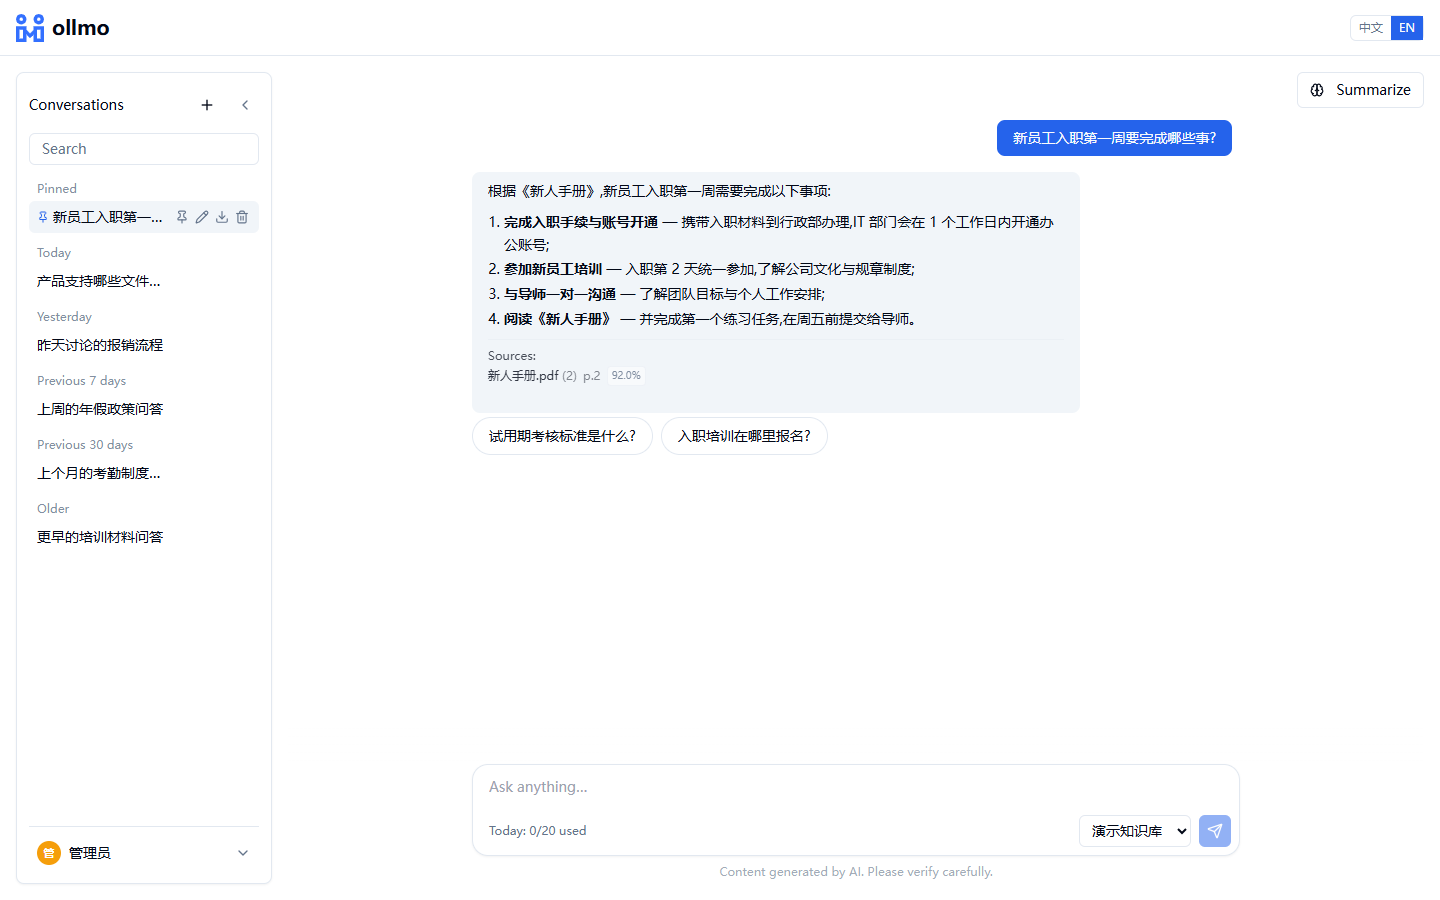
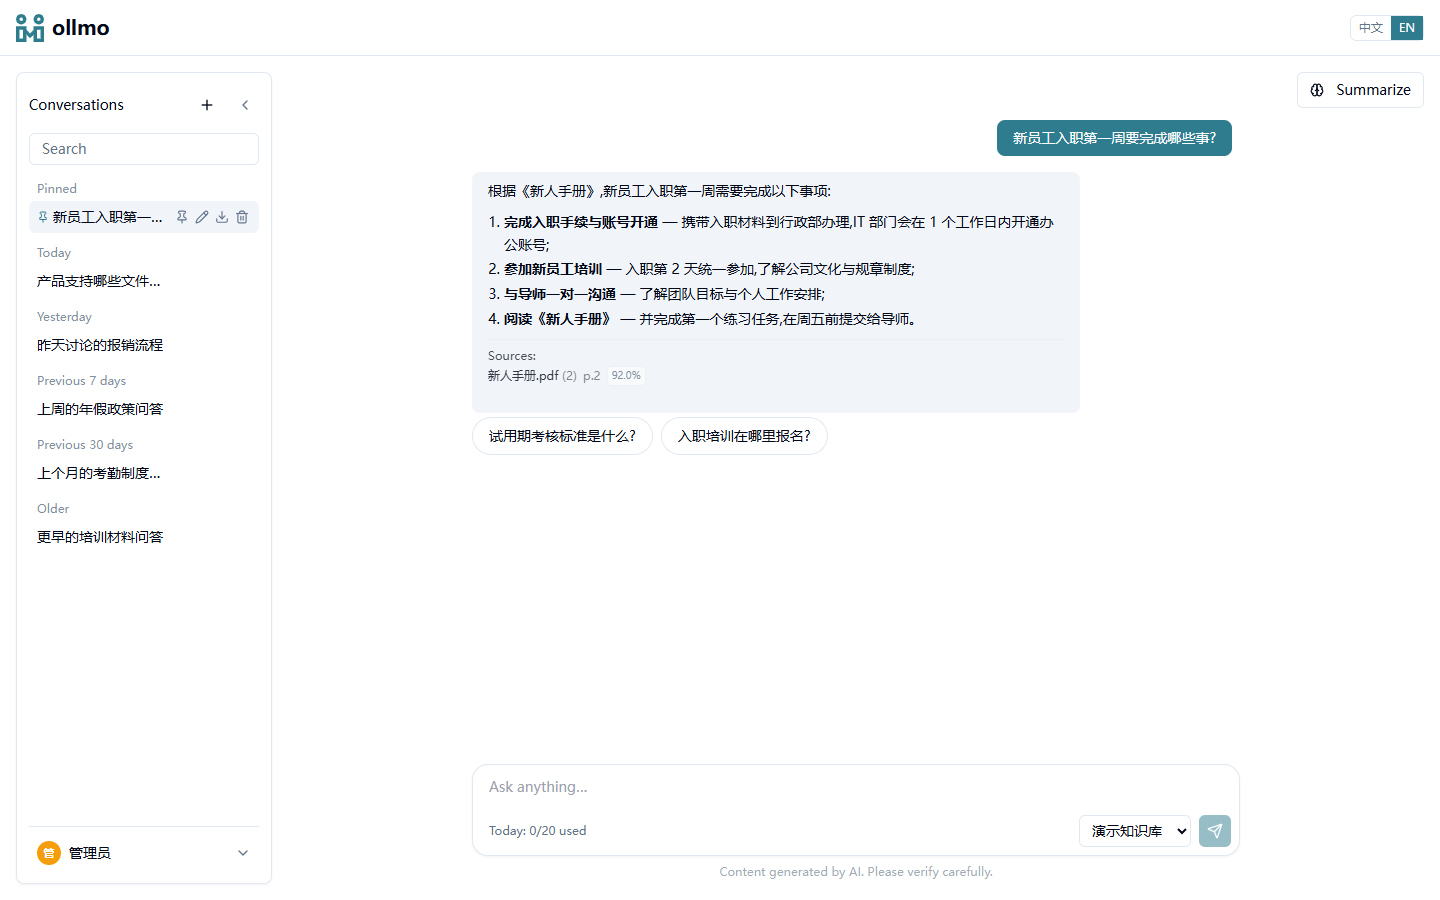
feat(theme): 主色调由蓝改为深青,修复暗色变量未编译的问题
- 主色 token 换为青色系:亮色 --primary hsl(191 50% 37%)(#2F7C8E 深青),
  hover 用 #486B73 的 hsl(191 23% 37%),暗色用亮青 hsl(188 55% 62%)
  配深青前景字;新增 --primary-hover 供按钮 hover 使用;
- Logo 改用 hsl(var(--primary)) 跟随主题;
- 清理 15 处硬编码蓝(来源徽章/状态徽章/图表色/LLM 节点色/侧边栏图标)
  统一换成 teal,安装页链接改用 text-primary;
- 修复:globals.css 的 .dark 变量块从未进入编译产物(Tailwind v3 会
  丢弃 .dark/:is(.dark) 选择器的源规则),导致暗色模式一直用亮色变量。
  改用 html.dark 拼写,已确认编译输出包含暗色变量;
- 重拍全部 README 截图(青色主题)。

diff --git a/web/app/globals.css b/web/app/globals.css
@@ -10,8 +10,9 @@
     --card-foreground: 222.2 84% 4.9%;
     --popover: 0 0% 100%;
     --popover-foreground: 222.2 84% 4.9%;
-    --primary: 221.2 83.2% 53.3%;
+    --primary: 191 50% 37%;
     --primary-foreground: 210 40% 98%;
+    --primary-hover: 191 23% 37%;
     --secondary: 210 40% 96.1%;
     --secondary-foreground: 222.2 47.4% 11.2%;
     --muted: 210 40% 96.1%;
@@ -22,31 +23,38 @@
     --destructive-foreground: 210 40% 98%;
     --border: 214.3 31.8% 91.4%;
     --input: 214.3 31.8% 91.4%;
-    --ring: 221.2 83.2% 53.3%;
+    --ring: 191 50% 37%;
     --radius: 0.5rem;
   }
+}
 
-  .dark {
-    --background: 222.2 84% 4.9%;
-    --foreground: 210 40% 98%;
-    --card: 222.2 84% 4.9%;
-    --card-foreground: 210 40% 98%;
-    --popover: 222.2 84% 4.9%;
-    --popover-foreground: 210 40% 98%;
-    --primary: 217.2 91.2% 59.8%;
-    --primary-foreground: 222.2 47.4% 11.2%;
-    --secondary: 217.2 32.6% 17.5%;
-    --secondary-foreground: 210 40% 98%;
-    --muted: 217.2 32.6% 17.5%;
-    --muted-foreground: 215 20.2% 65.1%;
-    --accent: 217.2 32.6% 17.5%;
-    --accent-foreground: 210 40% 98%;
-    --destructive: 0 62.8% 30.6%;
-    --destructive-foreground: 210 40% 98%;
-    --border: 217.2 32.6% 17.5%;
-    --input: 217.2 32.6% 17.5%;
-    --ring: 217.2 91.2% 59.8%;
-  }
+/* Dark overrides use the html.dark spelling: Tailwind v3's class-based
+   dark mode drops source rules whose selector is `.dark` or `:is(.dark)`
+   during compilation, so those spellings never reach the built CSS and
+   dark mode silently keeps the light variables. `html.dark` survives and
+   targets the same element; unlayered, it also outranks the layered
+   :root block at the same element, which is what we want here. */
+html.dark {
+  --background: 222.2 84% 4.9%;
+  --foreground: 210 40% 98%;
+  --card: 222.2 84% 4.9%;
+  --card-foreground: 210 40% 98%;
+  --popover: 222.2 84% 4.9%;
+  --popover-foreground: 210 40% 98%;
+  --primary: 188 55% 62%;
+  --primary-foreground: 190 60% 12%;
+  --primary-hover: 188 60% 52%;
+  --secondary: 217.2 32.6% 17.5%;
+  --secondary-foreground: 210 40% 98%;
+  --muted: 217.2 32.6% 17.5%;
+  --muted-foreground: 215 20.2% 65.1%;
+  --accent: 217.2 32.6% 17.5%;
+  --accent-foreground: 210 40% 98%;
+  --destructive: 0 62.8% 30.6%;
+  --destructive-foreground: 210 40% 98%;
+  --border: 217.2 32.6% 17.5%;
+  --input: 217.2 32.6% 17.5%;
+  --ring: 188 55% 62%;
 }
 
 @layer base {

diff --git a/web/app/dashboard/analytics/bills-section.tsx b/web/app/dashboard/analytics/bills-section.tsx
@@ -11,7 +11,7 @@ import { formatCost, formatTime, formatTokens } from "@/lib/utils";
 // Color tokens for icon badges. Tailwind requires static class names, so we
 // enumerate the variants used on this page.
 const BADGE: Record<string, string> = {
-  blue: "bg-blue-50 text-blue-600 dark:bg-blue-950/50 dark:text-blue-400",
+  blue: "bg-teal-50 text-teal-600 dark:bg-teal-950/50 dark:text-teal-400",
   green: "bg-green-50 text-green-600 dark:bg-green-950/50 dark:text-green-400",
   purple: "bg-purple-50 text-purple-600 dark:bg-purple-950/50 dark:text-purple-400",
   amber: "bg-amber-50 text-amber-600 dark:bg-amber-950/50 dark:text-amber-400",
@@ -35,7 +35,7 @@ function Badge({
 // Source label lookup: each LLM call carries a source that identifies which
 // pipeline step produced it. Colors match the agent node palette.
 const SOURCE: Record<string, { key: string; cls: string }> = {
-  chat: { key: "bill.source_chat", cls: "bg-blue-50 text-blue-600 dark:bg-blue-950/50 dark:text-blue-400" },
+  chat: { key: "bill.source_chat", cls: "bg-teal-50 text-teal-600 dark:bg-teal-950/50 dark:text-teal-400" },
   classifier: { key: "bill.source_classifier", cls: "bg-violet-50 text-violet-600 dark:bg-violet-950/50 dark:text-violet-400" },
   intermediate: { key: "bill.source_intermediate", cls: "bg-amber-50 text-amber-600 dark:bg-amber-950/50 dark:text-amber-400" },
   followups: { key: "bill.source_followups", cls: "bg-cyan-50 text-cyan-600 dark:bg-cyan-950/50 dark:text-cyan-400" },

diff --git a/web/components/agent/agent-nodes.tsx b/web/components/agent/agent-nodes.tsx
@@ -27,7 +27,7 @@ const accents: Record<string, NodeAccent> = {
   classifier: { color: "#8b5cf6", icon: "text-violet-500" },
   retrieval: { color: "#10b981", icon: "text-emerald-500" },
   condition: { color: "#f59e0b", icon: "text-amber-500" },
-  llm: { color: "#3b82f6", icon: "text-blue-500" },
+  llm: { color: "#0d9488", icon: "text-teal-500" },
   message: { color: "#06b6d4", icon: "text-cyan-500" },
 };
 
@@ -244,7 +244,7 @@ export const NODE_TYPE_LABEL_KEY: Record<string, string> = {
 // between source and target without deleting and re-wiring by hand.
 const INSERTABLE_NODES: { type: string; labelKey: string; icon: React.ReactNode; color: string }[] = [
   { type: "retrieval", labelKey: "agent.node_retrieval", icon: <Search className="h-3.5 w-3.5" />, color: "text-emerald-500" },
-  { type: "llm", labelKey: "agent.node_llm", icon: <Brain className="h-3.5 w-3.5" />, color: "text-blue-500" },
+  { type: "llm", labelKey: "agent.node_llm", icon: <Brain className="h-3.5 w-3.5" />, color: "text-teal-500" },
   { type: "message", labelKey: "agent.node_message", icon: <MessageSquare className="h-3.5 w-3.5" />, color: "text-cyan-500" },
   { type: "condition", labelKey: "agent.node_condition", icon: <GitBranch className="h-3.5 w-3.5" />, color: "text-amber-500" },
   { type: "classifier", labelKey: "agent.node_classifier", icon: <Split className="h-3.5 w-3.5" />, color: "text-violet-500" },

diff --git a/web/components/kb/retrieval-test-drawer.tsx b/web/components/kb/retrieval-test-drawer.tsx
@@ -303,7 +303,7 @@ function HitCard({
 
 function Badge({ children, color }: { children: React.ReactNode; color: "blue" | "green" | "purple" | "amber" }) {
   const colors = {
-    blue: "bg-blue-100 text-blue-700 dark:bg-blue-900/30 dark:text-blue-400",
+    blue: "bg-teal-100 text-teal-700 dark:bg-teal-900/30 dark:text-teal-400",
     green: "bg-emerald-100 text-emerald-700 dark:bg-emerald-900/30 dark:text-emerald-400",
     purple: "bg-purple-100 text-purple-700 dark:bg-purple-900/30 dark:text-purple-400",
     amber: "bg-amber-100 text-amber-700 dark:bg-amber-900/30 dark:text-amber-400",
@@ -317,7 +317,7 @@ function Badge({ children, color }: { children: React.ReactNode; color: "blue" |
 
 function ScoreBadge({ label, value, color }: { label: string; value: number; color: "blue" | "green" | "purple" | "amber" }) {
   const colors = {
-    blue: "bg-blue-50 text-blue-600 dark:bg-blue-900/20 dark:text-blue-400",
+    blue: "bg-teal-50 text-teal-600 dark:bg-teal-900/20 dark:text-teal-400",
     green: "bg-emerald-50 text-emerald-600 dark:bg-emerald-900/20 dark:text-emerald-400",
     purple: "bg-purple-50 text-purple-600 dark:bg-purple-900/20 dark:text-purple-400",
     amber: "bg-amber-50 text-amber-600 dark:bg-amber-900/20 dark:text-amber-400",

diff --git a/web/components/features/my-usage.tsx b/web/components/features/my-usage.tsx
@@ -9,7 +9,7 @@ import { Skeleton } from "@/components/ui/skeleton";
 
 // Source badge colors match the dashboard bills page.
 const SOURCE: Record<string, { key: string; cls: string }> = {
-  chat: { key: "bill.source_chat", cls: "bg-blue-50 text-blue-600 dark:bg-blue-950/50 dark:text-blue-400" },
+  chat: { key: "bill.source_chat", cls: "bg-teal-50 text-teal-600 dark:bg-teal-950/50 dark:text-teal-400" },
   classifier: { key: "bill.source_classifier", cls: "bg-violet-50 text-violet-600 dark:bg-violet-950/50 dark:text-violet-400" },
   intermediate: { key: "bill.source_intermediate", cls: "bg-amber-50 text-amber-600 dark:bg-amber-950/50 dark:text-amber-400" },
   followups: { key: "bill.source_followups", cls: "bg-cyan-50 text-cyan-600 dark:bg-cyan-950/50 dark:text-cyan-400" },

diff --git a/web/components/brand/logo.tsx b/web/components/brand/logo.tsx
@@ -37,7 +37,7 @@ export function Logo({
         <svg
           viewBox="0 0 1024 1024"
           className={cn("shrink-0", size)}
-          fill="#3370FF"
+          style={{ fill: "hsl(var(--primary))" }}
           aria-hidden="true"
         >
           <path d="M256 576H128v320h128V576z m128 0l128 134.4 128-128V448h384v576h-384v-256l-38.4 38.4L512 889.6l-128-128V1024H0V448h384v128z m512 0h-128v320h128V576z m128-384c0 108.8-83.2 192-192 192s-192-83.2-192-192 83.2-192 192-192 192 83.2 192 192z m-128 0c0-38.4-25.6-64-64-64s-64 25.6-64 64 25.6 64 64 64 64-25.6 64-64zM384 192c0 108.8-83.2 192-192 192S0 300.8 0 192s83.2-192 192-192 192 83.2 192 192zM256 192c0-38.4-25.6-64-64-64s-64 25.6-64 64 25.6 64 64 64 64-25.6 64-64z" />

diff --git a/web/app/dashboard/analytics/page.tsx b/web/app/dashboard/analytics/page.tsx
@@ -34,7 +34,7 @@ function initialTab(): Tab {
 // Color tokens for icon badges. Tailwind requires static class names, so we
 // enumerate the variants used across the dashboard.
 const BADGE: Record<string, string> = {
-  blue: "bg-blue-50 text-blue-600 dark:bg-blue-950/50 dark:text-blue-400",
+  blue: "bg-teal-50 text-teal-600 dark:bg-teal-950/50 dark:text-teal-400",
   green: "bg-green-50 text-green-600 dark:bg-green-950/50 dark:text-green-400",
   purple: "bg-purple-50 text-purple-600 dark:bg-purple-950/50 dark:text-purple-400",
   orange: "bg-orange-50 text-orange-600 dark:bg-orange-950/50 dark:text-orange-400",

diff --git a/web/app/dashboard/page.tsx b/web/app/dashboard/page.tsx
@@ -33,7 +33,7 @@ import {
 import { useTranslations } from "next-intl";
 
 const BADGE: Record<string, string> = {
-  blue: "bg-blue-50 text-blue-600 dark:bg-blue-950/50 dark:text-blue-400",
+  blue: "bg-teal-50 text-teal-600 dark:bg-teal-950/50 dark:text-teal-400",
   purple: "bg-purple-50 text-purple-600 dark:bg-purple-950/50 dark:text-purple-400",
   orange: "bg-orange-50 text-orange-600 dark:bg-orange-950/50 dark:text-orange-400",
   indigo: "bg-indigo-50 text-indigo-600 dark:bg-indigo-950/50 dark:text-indigo-400",

diff --git a/web/app/dashboard/system-users/page.tsx b/web/app/dashboard/system-users/page.tsx
@@ -108,7 +108,7 @@ export default function SystemUsersPage() {
                         <span
                           className={`px-2 py-0.5 rounded text-xs ${
                             u.role === "admin"
-                              ? "bg-blue-100 text-blue-700"
+                              ? "bg-teal-100 text-teal-700"
                               : "bg-muted text-muted-foreground"
                           }`}
                         >

diff --git a/web/app/install/page.tsx b/web/app/install/page.tsx
@@ -177,7 +177,7 @@ export default function InstallPage() {
                       href={t("install.api_key_link_url")}
                       target="_blank"
                       rel="noopener noreferrer"
-                      className="text-xs text-blue-600 hover:underline"
+                      className="text-xs text-primary hover:underline"
                     >
                       {t("install.api_key_link")}
                     </a>

diff --git a/web/app/dashboard/tenant/page.tsx b/web/app/dashboard/tenant/page.tsx
@@ -316,7 +316,7 @@ export default function TeamPage() {
                         <span
                           className={`px-2 py-0.5 rounded text-xs ${
                             u.role === "admin"
-                              ? "bg-blue-100 text-blue-700"
+                              ? "bg-teal-100 text-teal-700"
                               : "bg-muted text-muted-foreground"
                           }`}
                         >

diff --git a/web/app/dashboard/knowledge-bases/page.tsx b/web/app/dashboard/knowledge-bases/page.tsx
@@ -174,7 +174,7 @@ export default function KnowledgeBasesPage() {
                   <span
                     className={`ml-2 px-1.5 py-0.5 rounded text-xs ${
                       kb.visibility === "team"
-                        ? "bg-blue-100 text-blue-700"
+                        ? "bg-teal-100 text-teal-700"
                         : "bg-muted text-muted-foreground"
                     }`}
                   >
